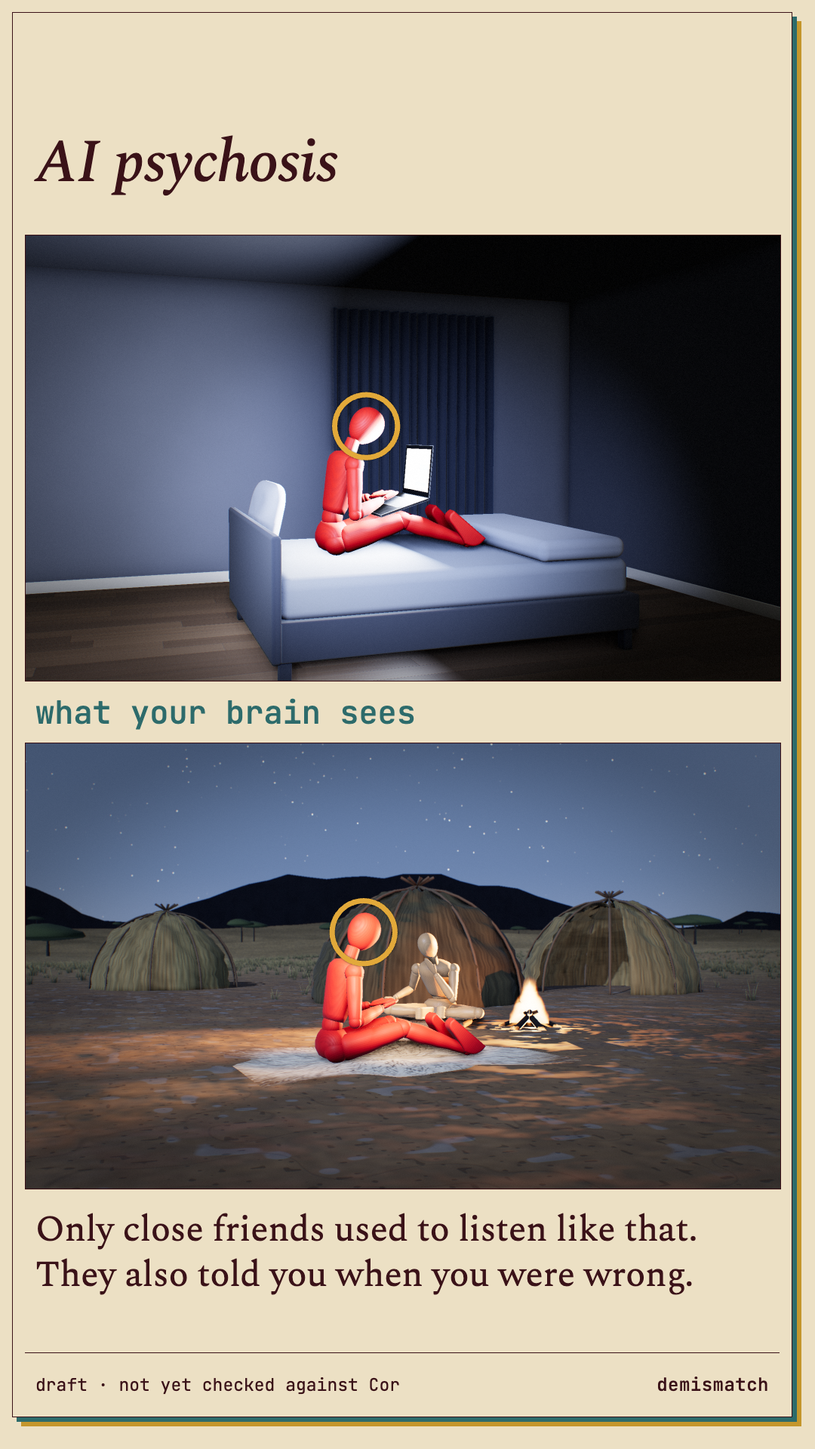
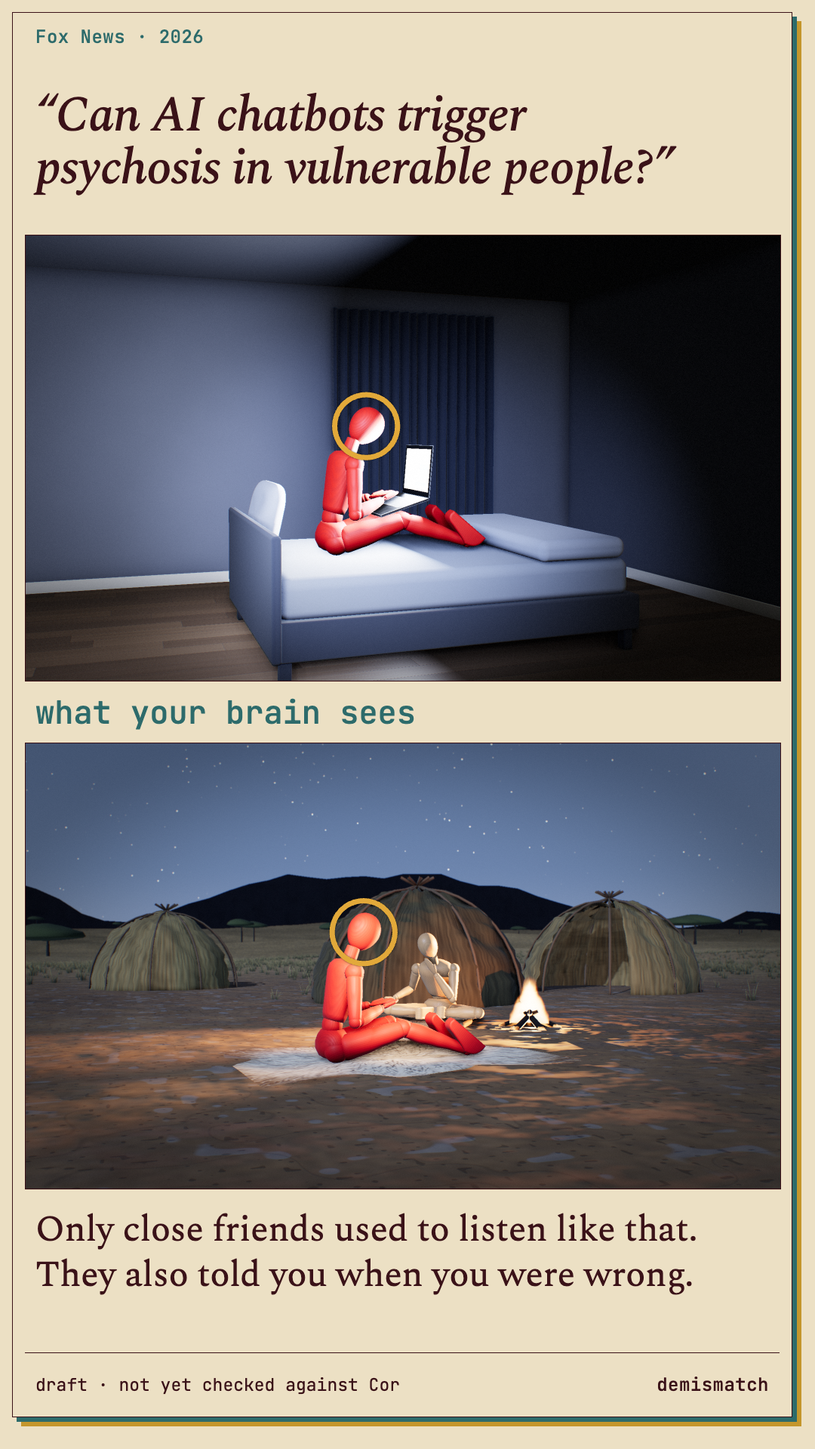
3D cards: real headlines (news and Reddit), sourced and linked

Changed region(s): [[0.0306, 0.0625, 0.825, 0.1562], [0.0917, 0.0, 0.1528, 0.0312], [0.2139, 0.0, 0.2444, 0.0312]]

diff --git a/3d/index.html b/3d/index.html
@@ -16,26 +16,27 @@ ul{list-style:none;margin:24px 0 0;padding:0 16px 60px;display:grid;grid-templat
 @media (max-width:1000px){ul{grid-template-columns:repeat(2,minmax(0,1fr))}}
 @media (max-width:560px){ul{grid-template-columns:1fr}}
 img{display:block;width:100%;height:auto}
+.cite{font:400 12px/1.4 var(--mono);color:var(--teal);margin:8px 2px 0}.cite a{color:inherit}
 .foot{font:400 13px/1.5 var(--mono);color:var(--teal);padding:0 16px 40px}
 @media (min-width:900px){.foot{padding:0 32px 40px}}
 </style></head><body>
 <header><h1>Decode cards</h1>
-<p>Each card shows a situation twice: today on top, and below it the same moment as the brain reads it. One thing swaps. The red figure is the person the card is about.</p></header>
+<p>Each headline is real: a news headline or a Reddit post, linked under the card. The card shows the situation twice: today on top, and below it the same moment as the brain reads it. One thing swaps. The red figure is the person the card is about.</p></header>
 <ul>
-<li><a href="01-baby-put-down/card.html"><img src="01-baby-put-down/card.png" width="1080" height="1920" loading="lazy" alt="She screams the second you put her down. what her brain sees. A baby left alone at night could be taken by an animal. Crying brought the adults back."></a></li>
-<li><a href="02-fantasy-bra-outrage/card.html"><img src="02-fantasy-bra-outrage/card.png" width="1080" height="1920" loading="lazy" alt="Furious about a bra you will never wear. what your brain sees. Show-offs used to get taken down a peg by the whole camp. The urge is still there."></a></li>
-<li><a href="03-ukraine-grid-strikes/card.html"><img src="03-ukraine-grid-strikes/card.png" width="1080" height="1920" loading="lazy" alt="76 grid strikes in a week. Still no surrender.. what their brains see. An attack from outside used to pull a group together. It still does."></a></li>
-<li><a href="04-awake-at-1am/card.html"><img src="04-awake-at-1am/card.png" width="1080" height="1920" loading="lazy" alt="Exhausted, still awake at 1am. what your brain sees. Light used to mean it was daytime. Your phone tells your brain it still is."></a></li>
-<li><a href="05-outrage-addiction/card.html"><img src="05-outrage-addiction/card.png" width="1080" height="1920" loading="lazy" alt="Outrage addiction. what your brain sees. An insult used to be settled face to face by morning. Online it never stops."></a></li>
-<li><a href="06-doomscrolling-gaza/card.html"><img src="06-doomscrolling-gaza/card.png" width="1080" height="1920" loading="lazy" alt="Doomscrolling the Israel-Gaza war. what your brain sees. If you could see a raid, it could reach you. Your body still gets ready to run."></a></li>
-<li><a href="07-trump-derangement/card.html"><img src="07-trump-derangement/card.png" width="1080" height="1920" loading="lazy" alt="Trump derangement syndrome. what your brain sees. A leader used to be someone you could argue with at the fire. On TV, you can only shout."></a></li>
-<li><a href="08-ai-psychosis/card.html"><img src="08-ai-psychosis/card.png" width="1080" height="1920" loading="lazy" alt="AI psychosis. what your brain sees. Only close friends used to listen like that. They also told you when you were wrong."></a></li>
-<li><a href="09-meaning-crisis/card.html"><img src="09-meaning-crisis/card.png" width="1080" height="1920" loading="lazy" alt="The meaning crisis. what your brain sees. Work used to feed people you could see. A spreadsheet shows you no one."></a></li>
-<li><a href="10-fomo/card.html"><img src="10-fomo/card.png" width="1080" height="1920" loading="lazy" alt="FOMO. what your brain sees. Being left behind by your group was dangerous. A party photo sets off the same alarm."></a></li>
-<li><a href="11-rejection-sensitivity/card.html"><img src="11-rejection-sensitivity/card.png" width="1080" height="1920" loading="lazy" alt="Rejection sensitive dysphoria. what your brain sees. Falling out with your group could get you thrown out. “Can we talk?” sets off that alarm."></a></li>
-<li><a href="12-loneliness-epidemic/card.html"><img src="12-loneliness-epidemic/card.png" width="1080" height="1920" loading="lazy" alt="The loneliness epidemic. what your brain sees. People used to work side by side all day. Alone with a laptop, you feel left out."></a></li>
-<li><a href="13-dating-app-burnout/card.html"><img src="13-dating-app-burnout/card.png" width="1080" height="1920" loading="lazy" alt="Dating app burnout. what your brain sees. You used to choose from a few people you’d known for life. The app never runs out."></a></li>
-<li><a href="14-food-noise/card.html"><img src="14-food-noise/card.png" width="1080" height="1920" loading="lazy" alt="Food noise. what your brain sees. Sugar and fat were rare, so you ate them on the spot. Now they’re everywhere."></a></li>
+<li><a href="01-baby-put-down/card.html"><img src="01-baby-put-down/card.png" width="1080" height="1920" loading="lazy" alt="I’m going crazy... Baby cries the second I put her down.. what her brain sees. A baby left alone at night could be taken by an animal. Crying brought the adults back."></a><p class="cite"><a href="https://www.reddit.com/r/beyondthebump/comments/xfi6sm" rel="noopener">r/beyondthebump · 2022</a> · from a Reddit archive</p></li>
+<li><a href="02-fantasy-bra-outrage/card.html"><img src="02-fantasy-bra-outrage/card.png" width="1080" height="1920" loading="lazy" alt="The Victoria’s Secret Fashion Show Returns. It Shouldn’t.. what your brain sees. Show-offs used to get taken down a peg by the whole camp. The urge is still there."></a><p class="cite"><a href="https://www.nytimes.com/2024/10/16/style/victorias-secret-fashion-show-return-hiatus.html" rel="noopener">The New York Times · 2024</a></p></li>
+<li><a href="03-ukraine-grid-strikes/card.html"><img src="03-ukraine-grid-strikes/card.png" width="1080" height="1920" loading="lazy" alt="In Ukraine, living as normal is an act of defiance. what their brains see. An attack from outside used to pull a group together. It still does."></a><p class="cite"><a href="https://www.economist.com/europe/2022/11/23/in-ukraine-living-as-normal-is-an-act-of-defiance" rel="noopener">The Economist · 2022</a></p></li>
+<li><a href="04-awake-at-1am/card.html"><img src="04-awake-at-1am/card.png" width="1080" height="1920" loading="lazy" alt="‘Revenge bedtime procrastination’ could be robbing you of precious sleep. what your brain sees. Light used to mean it was daytime. Your phone tells your brain it still is."></a><p class="cite"><a href="https://www.cnn.com/2021/02/15/health/revenge-bedtime-procrastination-wellness" rel="noopener">CNN · 2021</a></p></li>
+<li><a href="05-outrage-addiction/card.html"><img src="05-outrage-addiction/card.png" width="1080" height="1920" loading="lazy" alt="Does anyone else feel like most of the internet is just rage bait?. what your brain sees. An insult used to be settled face to face by morning. Online it never stops."></a><p class="cite"><a href="https://www.reddit.com/r/nosurf/comments/187u02g" rel="noopener">r/nosurf · 2023</a> · from a Reddit archive</p></li>
+<li><a href="06-doomscrolling-gaza/card.html"><img src="06-doomscrolling-gaza/card.png" width="1080" height="1920" loading="lazy" alt="Far from the fighting, the Israel-Gaza war divides friends, families. what your brain sees. If you could see a raid, it could reach you. Your body still gets ready to run."></a><p class="cite"><a href="https://www.washingtonpost.com/dc-md-va/2023/11/03/israel-gaza-war-us-broken-relationships/" rel="noopener">The Washington Post · 2023</a></p></li>
+<li><a href="07-trump-derangement/card.html"><img src="07-trump-derangement/card.png" width="1080" height="1920" loading="lazy" alt="Minnesota bill labels Trump derangement syndrome as mental illness. what your brain sees. A leader used to be someone you could argue with at the fire. On TV, you can only shout."></a><p class="cite"><a href="https://thehill.com/homenews/5200463-trump-derangement-syndrome-mental-illness-minnesota/" rel="noopener">The Hill · 2025</a></p></li>
+<li><a href="08-ai-psychosis/card.html"><img src="08-ai-psychosis/card.png" width="1080" height="1920" loading="lazy" alt="Can AI chatbots trigger psychosis in vulnerable people?. what your brain sees. Only close friends used to listen like that. They also told you when you were wrong."></a><p class="cite"><a href="https://www.foxnews.com/tech/can-ai-chatbots-trigger-psychosis-vulnerable-people" rel="noopener">Fox News · 2026</a></p></li>
+<li><a href="09-meaning-crisis/card.html"><img src="09-meaning-crisis/card.png" width="1080" height="1920" loading="lazy" alt="‘I had to guard an empty room’: the rise of the pointless job. what your brain sees. Work used to feed people you could see. A spreadsheet shows you no one."></a><p class="cite"><a href="https://www.theguardian.com/money/2018/may/04/i-had-to-guard-an-empty-room-the-rise-of-the-pointless-job" rel="noopener">The Guardian · 2018</a></p></li>
+<li><a href="10-fomo/card.html"><img src="10-fomo/card.png" width="1080" height="1920" loading="lazy" alt="They Left Me Out, and I Saw It All. what your brain sees. Being left behind by your group was dangerous. A party photo sets off the same alarm."></a><p class="cite"><a href="https://www.nytimes.com/2019/02/27/style/the-edit-fomo-left-out.html" rel="noopener">The New York Times · 2019</a></p></li>
+<li><a href="11-rejection-sensitivity/card.html"><img src="11-rejection-sensitivity/card.png" width="1080" height="1920" loading="lazy" alt="My boss said she wants to talk on Monday. what your brain sees. Falling out with your group could get you thrown out. “Can we talk?” sets off that alarm."></a><p class="cite"><a href="https://www.reddit.com/r/Anxiety/comments/sv1pvr" rel="noopener">r/Anxiety · 2022</a> · from a Reddit archive</p></li>
+<li><a href="12-loneliness-epidemic/card.html"><img src="12-loneliness-epidemic/card.png" width="1080" height="1920" loading="lazy" alt="Home alone: Remote work fuelling the loneliness epidemic. what your brain sees. People used to work side by side all day. Alone with a laptop, you feel left out."></a><p class="cite"><a href="https://www.irishtimes.com/special-reports/2025/12/19/home-alone-remote-work-fuelling-the-loneliness-epidemic/" rel="noopener">The Irish Times · 2025</a></p></li>
+<li><a href="13-dating-app-burnout/card.html"><img src="13-dating-app-burnout/card.png" width="1080" height="1920" loading="lazy" alt="‘I’m fed up of swiping’: The singles choosing dating events over apps. what your brain sees. You used to choose from a few people you’d known for life. The app never runs out."></a><p class="cite"><a href="https://www.bbc.co.uk/news/articles/cj62y9dnd6pwo" rel="noopener">BBC · 2026</a></p></li>
+<li><a href="14-food-noise/card.html"><img src="14-food-noise/card.png" width="1080" height="1920" loading="lazy" alt="Can’t stop thinking about food? You’re far from alone. what your brain sees. Sugar and fat were rare, so you ate them on the spot. Now they’re everywhere."></a><p class="cite"><a href="https://www.news-medical.net/news/20260929/Cane28099t-stop-thinking-about-food-Youe28099re-far-from-alone.aspx" rel="noopener">News-Medical · 2026</a></p></li>
 </ul>
 <p class="foot">rendered from code · drafts: the new cards' copy is not yet checked against Cor · <a href="../index.html">all graphic approaches</a></p>
 </body></html>

diff --git a/3d/06-doomscrolling-gaza/card.html b/3d/06-doomscrolling-gaza/card.html
@@ -1,5 +1,5 @@
 <!doctype html><html lang="en"><head><meta charset="utf-8"><meta name="viewport" content="width=device-width, initial-scale=1">
-<title>Doomscrolling the Israel-Gaza war</title><meta name="robots" content="noindex, nofollow">
+<title>Far from the fighting, the Israel-Gaza war divides friends, families</title><meta name="robots" content="noindex, nofollow">
 <meta name="description" content="If you could see a raid, it could reach you. Your body still gets ready to run.">
 <link rel="preconnect" href="https://fonts.googleapis.com"><link rel="preconnect" href="https://fonts.gstatic.com" crossorigin><link href="https://fonts.googleapis.com/css2?family=JetBrains+Mono:wght@400;500&family=Spectral:ital,wght@0,400;0,500;1,400;1,500&display=swap" rel="stylesheet">
 <style>:root{--oxblood:#3a1218;--parchment:#ece0c4;--teal:#2d6b6b;--gold:#c4962c;--serif:"Spectral",Georgia,serif;--mono:"JetBrains Mono",ui-monospace,Menlo,monospace}
@@ -7,8 +7,9 @@ html,body{margin:0;background:var(--parchment)}
 body{overflow-x:hidden}
 .fit{width:1080px;height:1920px;transform-origin:0 0}
 .card{position:absolute;left:16px;top:16px;width:1034px;height:1862px;box-sizing:border-box;background:var(--parchment);border:1px solid var(--oxblood);
-  box-shadow:6px 6px 0 var(--teal),12px 12px 0 var(--gold);padding:72px 16px 0;display:flex;flex-direction:column;color:var(--oxblood)}
-h1{font:italic 500 80px/1.06 var(--serif);margin:0 14px;letter-spacing:-0.01em;min-height:170px;display:flex;align-items:flex-end;text-wrap:balance}
+  box-shadow:6px 6px 0 var(--teal),12px 12px 0 var(--gold);padding:62px 16px 0;display:flex;flex-direction:column;color:var(--oxblood)}
+.src{position:absolute;top:20px;left:30px;margin:0;font:500 24px/1 var(--mono);color:var(--teal);letter-spacing:0.02em}
+h1{font:italic 500 80px/1.06 var(--serif);margin:0 14px;letter-spacing:-0.01em;height:180px;display:flex;align-items:flex-end;text-wrap:balance}
 .panels{margin-top:52px}
 .panel{display:block;width:1000px;height:590px;border:1px solid var(--oxblood)}
 .label{font:500 42px/1 var(--mono);color:var(--teal);text-transform:lowercase;margin:0;padding:20px 14px 19px;letter-spacing:0}
@@ -17,7 +18,7 @@ footer{margin-top:auto;border-top:1px solid var(--oxblood);display:flex;justify-
 footer .w{font:500 24px/1 var(--mono);letter-spacing:0.02em}
 </style></head><body>
 <div class="fit" id="fit"><article class="card">
-<h1>Doomscrolling the Israel-Gaza war</h1>
+<p class="src">The Washington Post · 2023</p><h1 style="font-size:56px">“Far from the fighting, the Israel-Gaza war divides friends, families”</h1>
 <div class="panels"><img class="panel" src="top.png" width="1000" height="590" alt="phone held up in front of the face">
 <p class="label">what your brain sees</p>
 <img class="panel" src="bottom.png" width="1000" height="590" alt="the next camp burning on the far ridge"></div>

diff --git a/3d/11-rejection-sensitivity/card.html b/3d/11-rejection-sensitivity/card.html
@@ -1,5 +1,5 @@
 <!doctype html><html lang="en"><head><meta charset="utf-8"><meta name="viewport" content="width=device-width, initial-scale=1">
-<title>Rejection sensitive dysphoria</title><meta name="robots" content="noindex, nofollow">
+<title>My boss said she wants to talk on Monday</title><meta name="robots" content="noindex, nofollow">
 <meta name="description" content="Falling out with your group could get you thrown out. “Can we talk?” sets off that alarm.">
 <link rel="preconnect" href="https://fonts.googleapis.com"><link rel="preconnect" href="https://fonts.gstatic.com" crossorigin><link href="https://fonts.googleapis.com/css2?family=JetBrains+Mono:wght@400;500&family=Spectral:ital,wght@0,400;0,500;1,400;1,500&display=swap" rel="stylesheet">
 <style>:root{--oxblood:#3a1218;--parchment:#ece0c4;--teal:#2d6b6b;--gold:#c4962c;--serif:"Spectral",Georgia,serif;--mono:"JetBrains Mono",ui-monospace,Menlo,monospace}
@@ -7,8 +7,9 @@ html,body{margin:0;background:var(--parchment)}
 body{overflow-x:hidden}
 .fit{width:1080px;height:1920px;transform-origin:0 0}
 .card{position:absolute;left:16px;top:16px;width:1034px;height:1862px;box-sizing:border-box;background:var(--parchment);border:1px solid var(--oxblood);
-  box-shadow:6px 6px 0 var(--teal),12px 12px 0 var(--gold);padding:72px 16px 0;display:flex;flex-direction:column;color:var(--oxblood)}
-h1{font:italic 500 80px/1.06 var(--serif);margin:0 14px;letter-spacing:-0.01em;min-height:170px;display:flex;align-items:flex-end;text-wrap:balance}
+  box-shadow:6px 6px 0 var(--teal),12px 12px 0 var(--gold);padding:62px 16px 0;display:flex;flex-direction:column;color:var(--oxblood)}
+.src{position:absolute;top:20px;left:30px;margin:0;font:500 24px/1 var(--mono);color:var(--teal);letter-spacing:0.02em}
+h1{font:italic 500 80px/1.06 var(--serif);margin:0 14px;letter-spacing:-0.01em;height:180px;display:flex;align-items:flex-end;text-wrap:balance}
 .panels{margin-top:52px}
 .panel{display:block;width:1000px;height:590px;border:1px solid var(--oxblood)}
 .label{font:500 42px/1 var(--mono);color:var(--teal);text-transform:lowercase;margin:0;padding:20px 14px 19px;letter-spacing:0}
@@ -17,7 +18,7 @@ footer{margin-top:auto;border-top:1px solid var(--oxblood);display:flex;justify-
 footer .w{font:500 24px/1 var(--mono);letter-spacing:0.02em}
 </style></head><body>
 <div class="fit" id="fit"><article class="card">
-<h1>Rejection sensitive dysphoria</h1>
+<p class="src">r/Anxiety · 2022</p><h1 style="font-size:80px">“My boss said she wants to talk on Monday”</h1>
 <div class="panels"><img class="panel" src="top.png" width="1000" height="590" alt="the phone held in both hands, a message open on it">
 <p class="label">what your brain sees</p>
 <img class="panel" src="bottom.png" width="1000" height="590" alt="the band's leader across the fire, arms crossed, staring"></div>

diff --git a/3d/13-dating-app-burnout/card.html b/3d/13-dating-app-burnout/card.html
@@ -1,5 +1,5 @@
 <!doctype html><html lang="en"><head><meta charset="utf-8"><meta name="viewport" content="width=device-width, initial-scale=1">
-<title>Dating app burnout</title><meta name="robots" content="noindex, nofollow">
+<title>‘I’m fed up of swiping’: The singles choosing dating events over apps</title><meta name="robots" content="noindex, nofollow">
 <meta name="description" content="You used to choose from a few people you’d known for life. The app never runs out.">
 <link rel="preconnect" href="https://fonts.googleapis.com"><link rel="preconnect" href="https://fonts.gstatic.com" crossorigin><link href="https://fonts.googleapis.com/css2?family=JetBrains+Mono:wght@400;500&family=Spectral:ital,wght@0,400;0,500;1,400;1,500&display=swap" rel="stylesheet">
 <style>:root{--oxblood:#3a1218;--parchment:#ece0c4;--teal:#2d6b6b;--gold:#c4962c;--serif:"Spectral",Georgia,serif;--mono:"JetBrains Mono",ui-monospace,Menlo,monospace}
@@ -7,8 +7,9 @@ html,body{margin:0;background:var(--parchment)}
 body{overflow-x:hidden}
 .fit{width:1080px;height:1920px;transform-origin:0 0}
 .card{position:absolute;left:16px;top:16px;width:1034px;height:1862px;box-sizing:border-box;background:var(--parchment);border:1px solid var(--oxblood);
-  box-shadow:6px 6px 0 var(--teal),12px 12px 0 var(--gold);padding:72px 16px 0;display:flex;flex-direction:column;color:var(--oxblood)}
-h1{font:italic 500 80px/1.06 var(--serif);margin:0 14px;letter-spacing:-0.01em;min-height:170px;display:flex;align-items:flex-end;text-wrap:balance}
+  box-shadow:6px 6px 0 var(--teal),12px 12px 0 var(--gold);padding:62px 16px 0;display:flex;flex-direction:column;color:var(--oxblood)}
+.src{position:absolute;top:20px;left:30px;margin:0;font:500 24px/1 var(--mono);color:var(--teal);letter-spacing:0.02em}
+h1{font:italic 500 80px/1.06 var(--serif);margin:0 14px;letter-spacing:-0.01em;height:180px;display:flex;align-items:flex-end;text-wrap:balance}
 .panels{margin-top:52px}
 .panel{display:block;width:1000px;height:590px;border:1px solid var(--oxblood)}
 .label{font:500 42px/1 var(--mono);color:var(--teal);text-transform:lowercase;margin:0;padding:20px 14px 19px;letter-spacing:0}
@@ -17,7 +18,7 @@ footer{margin-top:auto;border-top:1px solid var(--oxblood);display:flex;justify-
 footer .w{font:500 24px/1 var(--mono);letter-spacing:0.02em}
 </style></head><body>
 <div class="fit" id="fit"><article class="card">
-<h1>Dating app burnout</h1>
+<p class="src">BBC · 2026</p><h1 style="font-size:56px">“‘I’m fed up of swiping’: The singles choosing dating events over apps”</h1>
 <div class="panels"><img class="panel" src="top.png" width="1000" height="590" alt="the phone held up, swiping">
 <p class="label">what your brain sees</p>
 <img class="panel" src="bottom.png" width="1000" height="590" alt="three young people from the band across the fire"></div>

diff --git a/3d/01-baby-put-down/card.html b/3d/01-baby-put-down/card.html
@@ -1,5 +1,5 @@
 <!doctype html><html lang="en"><head><meta charset="utf-8"><meta name="viewport" content="width=device-width, initial-scale=1">
-<title>She screams the second you put her down</title><meta name="robots" content="noindex, nofollow">
+<title>I’m going crazy... Baby cries the second I put her down.</title><meta name="robots" content="noindex, nofollow">
 <meta name="description" content="A baby left alone at night could be taken by an animal. Crying brought the adults back.">
 <link rel="preconnect" href="https://fonts.googleapis.com"><link rel="preconnect" href="https://fonts.gstatic.com" crossorigin><link href="https://fonts.googleapis.com/css2?family=JetBrains+Mono:wght@400;500&family=Spectral:ital,wght@0,400;0,500;1,400;1,500&display=swap" rel="stylesheet">
 <style>:root{--oxblood:#3a1218;--parchment:#ece0c4;--teal:#2d6b6b;--gold:#c4962c;--serif:"Spectral",Georgia,serif;--mono:"JetBrains Mono",ui-monospace,Menlo,monospace}
@@ -7,8 +7,9 @@ html,body{margin:0;background:var(--parchment)}
 body{overflow-x:hidden}
 .fit{width:1080px;height:1920px;transform-origin:0 0}
 .card{position:absolute;left:16px;top:16px;width:1034px;height:1862px;box-sizing:border-box;background:var(--parchment);border:1px solid var(--oxblood);
-  box-shadow:6px 6px 0 var(--teal),12px 12px 0 var(--gold);padding:72px 16px 0;display:flex;flex-direction:column;color:var(--oxblood)}
-h1{font:italic 500 80px/1.06 var(--serif);margin:0 14px;letter-spacing:-0.01em;min-height:170px;display:flex;align-items:flex-end;text-wrap:balance}
+  box-shadow:6px 6px 0 var(--teal),12px 12px 0 var(--gold);padding:62px 16px 0;display:flex;flex-direction:column;color:var(--oxblood)}
+.src{position:absolute;top:20px;left:30px;margin:0;font:500 24px/1 var(--mono);color:var(--teal);letter-spacing:0.02em}
+h1{font:italic 500 80px/1.06 var(--serif);margin:0 14px;letter-spacing:-0.01em;height:180px;display:flex;align-items:flex-end;text-wrap:balance}
 .panels{margin-top:52px}
 .panel{display:block;width:1000px;height:590px;border:1px solid var(--oxblood)}
 .label{font:500 42px/1 var(--mono);color:var(--teal);text-transform:lowercase;margin:0;padding:20px 14px 19px;letter-spacing:0}
@@ -17,7 +18,7 @@ footer{margin-top:auto;border-top:1px solid var(--oxblood);display:flex;justify-
 footer .w{font:500 24px/1 var(--mono);letter-spacing:0.02em}
 </style></head><body>
 <div class="fit" id="fit"><article class="card">
-<h1>She screams the second you put her down</h1>
+<p class="src">r/beyondthebump · 2022</p><h1 style="font-size:66px">“I’m going crazy... Baby cries the second I put her down.”</h1>
 <div class="panels"><img class="panel" src="top.png" width="1000" height="590" alt="door light strip">
 <p class="label">what her brain sees</p>
 <img class="panel" src="bottom.png" width="1000" height="590" alt="distant campfire"></div>

diff --git a/3d/02-fantasy-bra-outrage/card.html b/3d/02-fantasy-bra-outrage/card.html
@@ -1,5 +1,5 @@
 <!doctype html><html lang="en"><head><meta charset="utf-8"><meta name="viewport" content="width=device-width, initial-scale=1">
-<title>Furious about a bra you will never wear</title><meta name="robots" content="noindex, nofollow">
+<title>The Victoria’s Secret Fashion Show Returns. It Shouldn’t.</title><meta name="robots" content="noindex, nofollow">
 <meta name="description" content="Show-offs used to get taken down a peg by the whole camp. The urge is still there.">
 <link rel="preconnect" href="https://fonts.googleapis.com"><link rel="preconnect" href="https://fonts.gstatic.com" crossorigin><link href="https://fonts.googleapis.com/css2?family=JetBrains+Mono:wght@400;500&family=Spectral:ital,wght@0,400;0,500;1,400;1,500&display=swap" rel="stylesheet">
 <style>:root{--oxblood:#3a1218;--parchment:#ece0c4;--teal:#2d6b6b;--gold:#c4962c;--serif:"Spectral",Georgia,serif;--mono:"JetBrains Mono",ui-monospace,Menlo,monospace}
@@ -7,8 +7,9 @@ html,body{margin:0;background:var(--parchment)}
 body{overflow-x:hidden}
 .fit{width:1080px;height:1920px;transform-origin:0 0}
 .card{position:absolute;left:16px;top:16px;width:1034px;height:1862px;box-sizing:border-box;background:var(--parchment);border:1px solid var(--oxblood);
-  box-shadow:6px 6px 0 var(--teal),12px 12px 0 var(--gold);padding:72px 16px 0;display:flex;flex-direction:column;color:var(--oxblood)}
-h1{font:italic 500 80px/1.06 var(--serif);margin:0 14px;letter-spacing:-0.01em;min-height:170px;display:flex;align-items:flex-end;text-wrap:balance}
+  box-shadow:6px 6px 0 var(--teal),12px 12px 0 var(--gold);padding:62px 16px 0;display:flex;flex-direction:column;color:var(--oxblood)}
+.src{position:absolute;top:20px;left:30px;margin:0;font:500 24px/1 var(--mono);color:var(--teal);letter-spacing:0.02em}
+h1{font:italic 500 80px/1.06 var(--serif);margin:0 14px;letter-spacing:-0.01em;height:180px;display:flex;align-items:flex-end;text-wrap:balance}
 .panels{margin-top:52px}
 .panel{display:block;width:1000px;height:590px;border:1px solid var(--oxblood)}
 .label{font:500 42px/1 var(--mono);color:var(--teal);text-transform:lowercase;margin:0;padding:20px 14px 19px;letter-spacing:0}
@@ -17,7 +18,7 @@ footer{margin-top:auto;border-top:1px solid var(--oxblood);display:flex;justify-
 footer .w{font:500 24px/1 var(--mono);letter-spacing:0.02em}
 </style></head><body>
 <div class="fit" id="fit"><article class="card">
-<h1>Furious about a bra you will never wear</h1>
+<p class="src">The New York Times · 2024</p><h1 style="font-size:66px">“The Victoria’s Secret Fashion Show Returns. It Shouldn’t.”</h1>
 <div class="panels"><img class="panel" src="top.png" width="1000" height="590" alt="raised phones">
 <p class="label">what your brain sees</p>
 <img class="panel" src="bottom.png" width="1000" height="590" alt="pointing arms"></div>

diff --git a/3d/05-outrage-addiction/card.html b/3d/05-outrage-addiction/card.html
@@ -1,5 +1,5 @@
 <!doctype html><html lang="en"><head><meta charset="utf-8"><meta name="viewport" content="width=device-width, initial-scale=1">
-<title>Outrage addiction</title><meta name="robots" content="noindex, nofollow">
+<title>Does anyone else feel like most of the internet is just rage bait?</title><meta name="robots" content="noindex, nofollow">
 <meta name="description" content="An insult used to be settled face to face by morning. Online it never stops.">
 <link rel="preconnect" href="https://fonts.googleapis.com"><link rel="preconnect" href="https://fonts.gstatic.com" crossorigin><link href="https://fonts.googleapis.com/css2?family=JetBrains+Mono:wght@400;500&family=Spectral:ital,wght@0,400;0,500;1,400;1,500&display=swap" rel="stylesheet">
 <style>:root{--oxblood:#3a1218;--parchment:#ece0c4;--teal:#2d6b6b;--gold:#c4962c;--serif:"Spectral",Georgia,serif;--mono:"JetBrains Mono",ui-monospace,Menlo,monospace}
@@ -7,8 +7,9 @@ html,body{margin:0;background:var(--parchment)}
 body{overflow-x:hidden}
 .fit{width:1080px;height:1920px;transform-origin:0 0}
 .card{position:absolute;left:16px;top:16px;width:1034px;height:1862px;box-sizing:border-box;background:var(--parchment);border:1px solid var(--oxblood);
-  box-shadow:6px 6px 0 var(--teal),12px 12px 0 var(--gold);padding:72px 16px 0;display:flex;flex-direction:column;color:var(--oxblood)}
-h1{font:italic 500 80px/1.06 var(--serif);margin:0 14px;letter-spacing:-0.01em;min-height:170px;display:flex;align-items:flex-end;text-wrap:balance}
+  box-shadow:6px 6px 0 var(--teal),12px 12px 0 var(--gold);padding:62px 16px 0;display:flex;flex-direction:column;color:var(--oxblood)}
+.src{position:absolute;top:20px;left:30px;margin:0;font:500 24px/1 var(--mono);color:var(--teal);letter-spacing:0.02em}
+h1{font:italic 500 80px/1.06 var(--serif);margin:0 14px;letter-spacing:-0.01em;height:180px;display:flex;align-items:flex-end;text-wrap:balance}
 .panels{margin-top:52px}
 .panel{display:block;width:1000px;height:590px;border:1px solid var(--oxblood)}
 .label{font:500 42px/1 var(--mono);color:var(--teal);text-transform:lowercase;margin:0;padding:20px 14px 19px;letter-spacing:0}
@@ -17,7 +18,7 @@ footer{margin-top:auto;border-top:1px solid var(--oxblood);display:flex;justify-
 footer .w{font:500 24px/1 var(--mono);letter-spacing:0.02em}
 </style></head><body>
 <div class="fit" id="fit"><article class="card">
-<h1>Outrage addiction</h1>
+<p class="src">r/nosurf · 2023</p><h1 style="font-size:56px">“Does anyone else feel like most of the internet is just rage bait?”</h1>
 <div class="panels"><img class="panel" src="top.png" width="1000" height="590" alt="the phone held in both hands">
 <p class="label">what your brain sees</p>
 <img class="panel" src="bottom.png" width="1000" height="590" alt="a man from another band shouting across the fire"></div>

diff --git a/3d/08-ai-psychosis/card.html b/3d/08-ai-psychosis/card.html
@@ -1,5 +1,5 @@
 <!doctype html><html lang="en"><head><meta charset="utf-8"><meta name="viewport" content="width=device-width, initial-scale=1">
-<title>AI psychosis</title><meta name="robots" content="noindex, nofollow">
+<title>Can AI chatbots trigger psychosis in vulnerable people?</title><meta name="robots" content="noindex, nofollow">
 <meta name="description" content="Only close friends used to listen like that. They also told you when you were wrong.">
 <link rel="preconnect" href="https://fonts.googleapis.com"><link rel="preconnect" href="https://fonts.gstatic.com" crossorigin><link href="https://fonts.googleapis.com/css2?family=JetBrains+Mono:wght@400;500&family=Spectral:ital,wght@0,400;0,500;1,400;1,500&display=swap" rel="stylesheet">
 <style>:root{--oxblood:#3a1218;--parchment:#ece0c4;--teal:#2d6b6b;--gold:#c4962c;--serif:"Spectral",Georgia,serif;--mono:"JetBrains Mono",ui-monospace,Menlo,monospace}
@@ -7,8 +7,9 @@ html,body{margin:0;background:var(--parchment)}
 body{overflow-x:hidden}
 .fit{width:1080px;height:1920px;transform-origin:0 0}
 .card{position:absolute;left:16px;top:16px;width:1034px;height:1862px;box-sizing:border-box;background:var(--parchment);border:1px solid var(--oxblood);
-  box-shadow:6px 6px 0 var(--teal),12px 12px 0 var(--gold);padding:72px 16px 0;display:flex;flex-direction:column;color:var(--oxblood)}
-h1{font:italic 500 80px/1.06 var(--serif);margin:0 14px;letter-spacing:-0.01em;min-height:170px;display:flex;align-items:flex-end;text-wrap:balance}
+  box-shadow:6px 6px 0 var(--teal),12px 12px 0 var(--gold);padding:62px 16px 0;display:flex;flex-direction:column;color:var(--oxblood)}
+.src{position:absolute;top:20px;left:30px;margin:0;font:500 24px/1 var(--mono);color:var(--teal);letter-spacing:0.02em}
+h1{font:italic 500 80px/1.06 var(--serif);margin:0 14px;letter-spacing:-0.01em;height:180px;display:flex;align-items:flex-end;text-wrap:balance}
 .panels{margin-top:52px}
 .panel{display:block;width:1000px;height:590px;border:1px solid var(--oxblood)}
 .label{font:500 42px/1 var(--mono);color:var(--teal);text-transform:lowercase;margin:0;padding:20px 14px 19px;letter-spacing:0}
@@ -17,7 +18,7 @@ footer{margin-top:auto;border-top:1px solid var(--oxblood);display:flex;justify-
 footer .w{font:500 24px/1 var(--mono);letter-spacing:0.02em}
 </style></head><body>
 <div class="fit" id="fit"><article class="card">
-<h1>AI psychosis</h1>
+<p class="src">Fox News · 2026</p><h1 style="font-size:66px">“Can AI chatbots trigger psychosis in vulnerable people?”</h1>
 <div class="panels"><img class="panel" src="top.png" width="1000" height="590" alt="the laptop screen, a chat open on it">
 <p class="label">what your brain sees</p>
 <img class="panel" src="bottom.png" width="1000" height="590" alt="a close friend sitting facing the subject, leaning in, listening"></div>

diff --git a/3d/03-ukraine-grid-strikes/card.html b/3d/03-ukraine-grid-strikes/card.html
@@ -1,5 +1,5 @@
 <!doctype html><html lang="en"><head><meta charset="utf-8"><meta name="viewport" content="width=device-width, initial-scale=1">
-<title>76 grid strikes in a week. Still no surrender.</title><meta name="robots" content="noindex, nofollow">
+<title>In Ukraine, living as normal is an act of defiance</title><meta name="robots" content="noindex, nofollow">
 <meta name="description" content="An attack from outside used to pull a group together. It still does.">
 <link rel="preconnect" href="https://fonts.googleapis.com"><link rel="preconnect" href="https://fonts.gstatic.com" crossorigin><link href="https://fonts.googleapis.com/css2?family=JetBrains+Mono:wght@400;500&family=Spectral:ital,wght@0,400;0,500;1,400;1,500&display=swap" rel="stylesheet">
 <style>:root{--oxblood:#3a1218;--parchment:#ece0c4;--teal:#2d6b6b;--gold:#c4962c;--serif:"Spectral",Georgia,serif;--mono:"JetBrains Mono",ui-monospace,Menlo,monospace}
@@ -7,8 +7,9 @@ html,body{margin:0;background:var(--parchment)}
 body{overflow-x:hidden}
 .fit{width:1080px;height:1920px;transform-origin:0 0}
 .card{position:absolute;left:16px;top:16px;width:1034px;height:1862px;box-sizing:border-box;background:var(--parchment);border:1px solid var(--oxblood);
-  box-shadow:6px 6px 0 var(--teal),12px 12px 0 var(--gold);padding:72px 16px 0;display:flex;flex-direction:column;color:var(--oxblood)}
-h1{font:italic 500 80px/1.06 var(--serif);margin:0 14px;letter-spacing:-0.01em;min-height:170px;display:flex;align-items:flex-end;text-wrap:balance}
+  box-shadow:6px 6px 0 var(--teal),12px 12px 0 var(--gold);padding:62px 16px 0;display:flex;flex-direction:column;color:var(--oxblood)}
+.src{position:absolute;top:20px;left:30px;margin:0;font:500 24px/1 var(--mono);color:var(--teal);letter-spacing:0.02em}
+h1{font:italic 500 80px/1.06 var(--serif);margin:0 14px;letter-spacing:-0.01em;height:180px;display:flex;align-items:flex-end;text-wrap:balance}
 .panels{margin-top:52px}
 .panel{display:block;width:1000px;height:590px;border:1px solid var(--oxblood)}
 .label{font:500 42px/1 var(--mono);color:var(--teal);text-transform:lowercase;margin:0;padding:20px 14px 19px;letter-spacing:0}
@@ -17,7 +18,7 @@ footer{margin-top:auto;border-top:1px solid var(--oxblood);display:flex;justify-
 footer .w{font:500 24px/1 var(--mono);letter-spacing:0.02em}
 </style></head><body>
 <div class="fit" id="fit"><article class="card">
-<h1>76 grid strikes in a week. Still no surrender.</h1>
+<p class="src">The Economist · 2022</p><h1 style="font-size:66px">“In Ukraine, living as normal is an act of defiance”</h1>
 <div class="panels"><img class="panel" src="top.png" width="1000" height="590" alt="three drones">
 <p class="label">what their brains see</p>
 <img class="panel" src="bottom.png" width="1000" height="590" alt="three raiders' torches on the ridge"></div>

diff --git a/3d/04-awake-at-1am/card.html b/3d/04-awake-at-1am/card.html
@@ -1,5 +1,5 @@
 <!doctype html><html lang="en"><head><meta charset="utf-8"><meta name="viewport" content="width=device-width, initial-scale=1">
-<title>Exhausted, still awake at 1am</title><meta name="robots" content="noindex, nofollow">
+<title>‘Revenge bedtime procrastination’ could be robbing you of precious sleep</title><meta name="robots" content="noindex, nofollow">
 <meta name="description" content="Light used to mean it was daytime. Your phone tells your brain it still is.">
 <link rel="preconnect" href="https://fonts.googleapis.com"><link rel="preconnect" href="https://fonts.gstatic.com" crossorigin><link href="https://fonts.googleapis.com/css2?family=JetBrains+Mono:wght@400;500&family=Spectral:ital,wght@0,400;0,500;1,400;1,500&display=swap" rel="stylesheet">
 <style>:root{--oxblood:#3a1218;--parchment:#ece0c4;--teal:#2d6b6b;--gold:#c4962c;--serif:"Spectral",Georgia,serif;--mono:"JetBrains Mono",ui-monospace,Menlo,monospace}
@@ -7,8 +7,9 @@ html,body{margin:0;background:var(--parchment)}
 body{overflow-x:hidden}
 .fit{width:1080px;height:1920px;transform-origin:0 0}
 .card{position:absolute;left:16px;top:16px;width:1034px;height:1862px;box-sizing:border-box;background:var(--parchment);border:1px solid var(--oxblood);
-  box-shadow:6px 6px 0 var(--teal),12px 12px 0 var(--gold);padding:72px 16px 0;display:flex;flex-direction:column;color:var(--oxblood)}
-h1{font:italic 500 80px/1.06 var(--serif);margin:0 14px;letter-spacing:-0.01em;min-height:170px;display:flex;align-items:flex-end;text-wrap:balance}
+  box-shadow:6px 6px 0 var(--teal),12px 12px 0 var(--gold);padding:62px 16px 0;display:flex;flex-direction:column;color:var(--oxblood)}
+.src{position:absolute;top:20px;left:30px;margin:0;font:500 24px/1 var(--mono);color:var(--teal);letter-spacing:0.02em}
+h1{font:italic 500 80px/1.06 var(--serif);margin:0 14px;letter-spacing:-0.01em;height:180px;display:flex;align-items:flex-end;text-wrap:balance}
 .panels{margin-top:52px}
 .panel{display:block;width:1000px;height:590px;border:1px solid var(--oxblood)}
 .label{font:500 42px/1 var(--mono);color:var(--teal);text-transform:lowercase;margin:0;padding:20px 14px 19px;letter-spacing:0}
@@ -17,7 +18,7 @@ footer{margin-top:auto;border-top:1px solid var(--oxblood);display:flex;justify-
 footer .w{font:500 24px/1 var(--mono);letter-spacing:0.02em}
 </style></head><body>
 <div class="fit" id="fit"><article class="card">
-<h1>Exhausted, still awake at 1am</h1>
+<p class="src">CNN · 2021</p><h1 style="font-size:56px">“‘Revenge bedtime procrastination’ could be robbing you of precious sleep”</h1>
 <div class="panels"><img class="panel" src="top.png" width="1000" height="590" alt="phone held above the face">
 <p class="label">what your brain sees</p>
 <img class="panel" src="bottom.png" width="1000" height="590" alt="the sun"></div>

diff --git a/3d/12-loneliness-epidemic/card.html b/3d/12-loneliness-epidemic/card.html
@@ -1,5 +1,5 @@
 <!doctype html><html lang="en"><head><meta charset="utf-8"><meta name="viewport" content="width=device-width, initial-scale=1">
-<title>The loneliness epidemic</title><meta name="robots" content="noindex, nofollow">
+<title>Home alone: Remote work fuelling the loneliness epidemic</title><meta name="robots" content="noindex, nofollow">
 <meta name="description" content="People used to work side by side all day. Alone with a laptop, you feel left out.">
 <link rel="preconnect" href="https://fonts.googleapis.com"><link rel="preconnect" href="https://fonts.gstatic.com" crossorigin><link href="https://fonts.googleapis.com/css2?family=JetBrains+Mono:wght@400;500&family=Spectral:ital,wght@0,400;0,500;1,400;1,500&display=swap" rel="stylesheet">
 <style>:root{--oxblood:#3a1218;--parchment:#ece0c4;--teal:#2d6b6b;--gold:#c4962c;--serif:"Spectral",Georgia,serif;--mono:"JetBrains Mono",ui-monospace,Menlo,monospace}
@@ -7,8 +7,9 @@ html,body{margin:0;background:var(--parchment)}
 body{overflow-x:hidden}
 .fit{width:1080px;height:1920px;transform-origin:0 0}
 .card{position:absolute;left:16px;top:16px;width:1034px;height:1862px;box-sizing:border-box;background:var(--parchment);border:1px solid var(--oxblood);
-  box-shadow:6px 6px 0 var(--teal),12px 12px 0 var(--gold);padding:72px 16px 0;display:flex;flex-direction:column;color:var(--oxblood)}
-h1{font:italic 500 80px/1.06 var(--serif);margin:0 14px;letter-spacing:-0.01em;min-height:170px;display:flex;align-items:flex-end;text-wrap:balance}
+  box-shadow:6px 6px 0 var(--teal),12px 12px 0 var(--gold);padding:62px 16px 0;display:flex;flex-direction:column;color:var(--oxblood)}
+.src{position:absolute;top:20px;left:30px;margin:0;font:500 24px/1 var(--mono);color:var(--teal);letter-spacing:0.02em}
+h1{font:italic 500 80px/1.06 var(--serif);margin:0 14px;letter-spacing:-0.01em;height:180px;display:flex;align-items:flex-end;text-wrap:balance}
 .panels{margin-top:52px}
 .panel{display:block;width:1000px;height:590px;border:1px solid var(--oxblood)}
 .label{font:500 42px/1 var(--mono);color:var(--teal);text-transform:lowercase;margin:0;padding:20px 14px 19px;letter-spacing:0}
@@ -17,7 +18,7 @@ footer{margin-top:auto;border-top:1px solid var(--oxblood);display:flex;justify-
 footer .w{font:500 24px/1 var(--mono);letter-spacing:0.02em}
 </style></head><body>
 <div class="fit" id="fit"><article class="card">
-<h1>The loneliness epidemic</h1>
+<p class="src">The Irish Times · 2025</p><h1 style="font-size:66px">“Home alone: Remote work fuelling the loneliness epidemic”</h1>
 <div class="panels"><img class="panel" src="top.png" width="1000" height="590" alt="a laptop on the kitchen table">
 <p class="label">what your brain sees</p>
 <img class="panel" src="bottom.png" width="1000" height="590" alt="the band, far off, working together"></div>

diff --git a/3d/09-meaning-crisis/card.html b/3d/09-meaning-crisis/card.html
@@ -1,5 +1,5 @@
 <!doctype html><html lang="en"><head><meta charset="utf-8"><meta name="viewport" content="width=device-width, initial-scale=1">
-<title>The meaning crisis</title><meta name="robots" content="noindex, nofollow">
+<title>‘I had to guard an empty room’: the rise of the pointless job</title><meta name="robots" content="noindex, nofollow">
 <meta name="description" content="Work used to feed people you could see. A spreadsheet shows you no one.">
 <link rel="preconnect" href="https://fonts.googleapis.com"><link rel="preconnect" href="https://fonts.gstatic.com" crossorigin><link href="https://fonts.googleapis.com/css2?family=JetBrains+Mono:wght@400;500&family=Spectral:ital,wght@0,400;0,500;1,400;1,500&display=swap" rel="stylesheet">
 <style>:root{--oxblood:#3a1218;--parchment:#ece0c4;--teal:#2d6b6b;--gold:#c4962c;--serif:"Spectral",Georgia,serif;--mono:"JetBrains Mono",ui-monospace,Menlo,monospace}
@@ -7,8 +7,9 @@ html,body{margin:0;background:var(--parchment)}
 body{overflow-x:hidden}
 .fit{width:1080px;height:1920px;transform-origin:0 0}
 .card{position:absolute;left:16px;top:16px;width:1034px;height:1862px;box-sizing:border-box;background:var(--parchment);border:1px solid var(--oxblood);
-  box-shadow:6px 6px 0 var(--teal),12px 12px 0 var(--gold);padding:72px 16px 0;display:flex;flex-direction:column;color:var(--oxblood)}
-h1{font:italic 500 80px/1.06 var(--serif);margin:0 14px;letter-spacing:-0.01em;min-height:170px;display:flex;align-items:flex-end;text-wrap:balance}
+  box-shadow:6px 6px 0 var(--teal),12px 12px 0 var(--gold);padding:62px 16px 0;display:flex;flex-direction:column;color:var(--oxblood)}
+.src{position:absolute;top:20px;left:30px;margin:0;font:500 24px/1 var(--mono);color:var(--teal);letter-spacing:0.02em}
+h1{font:italic 500 80px/1.06 var(--serif);margin:0 14px;letter-spacing:-0.01em;height:180px;display:flex;align-items:flex-end;text-wrap:balance}
 .panels{margin-top:52px}
 .panel{display:block;width:1000px;height:590px;border:1px solid var(--oxblood)}
 .label{font:500 42px/1 var(--mono);color:var(--teal);text-transform:lowercase;margin:0;padding:20px 14px 19px;letter-spacing:0}
@@ -17,7 +18,7 @@ footer{margin-top:auto;border-top:1px solid var(--oxblood);display:flex;justify-
 footer .w{font:500 24px/1 var(--mono);letter-spacing:0.02em}
 </style></head><body>
 <div class="fit" id="fit"><article class="card">
-<h1>The meaning crisis</h1>
+<p class="src">The Guardian · 2018</p><h1 style="font-size:66px">“‘I had to guard an empty room’: the rise of the pointless job”</h1>
 <div class="panels"><img class="panel" src="top.png" width="1000" height="590" alt="monitor with a spreadsheet">
 <p class="label">what your brain sees</p>
 <img class="panel" src="bottom.png" width="1000" height="590" alt="the family round the fire eating"></div>
